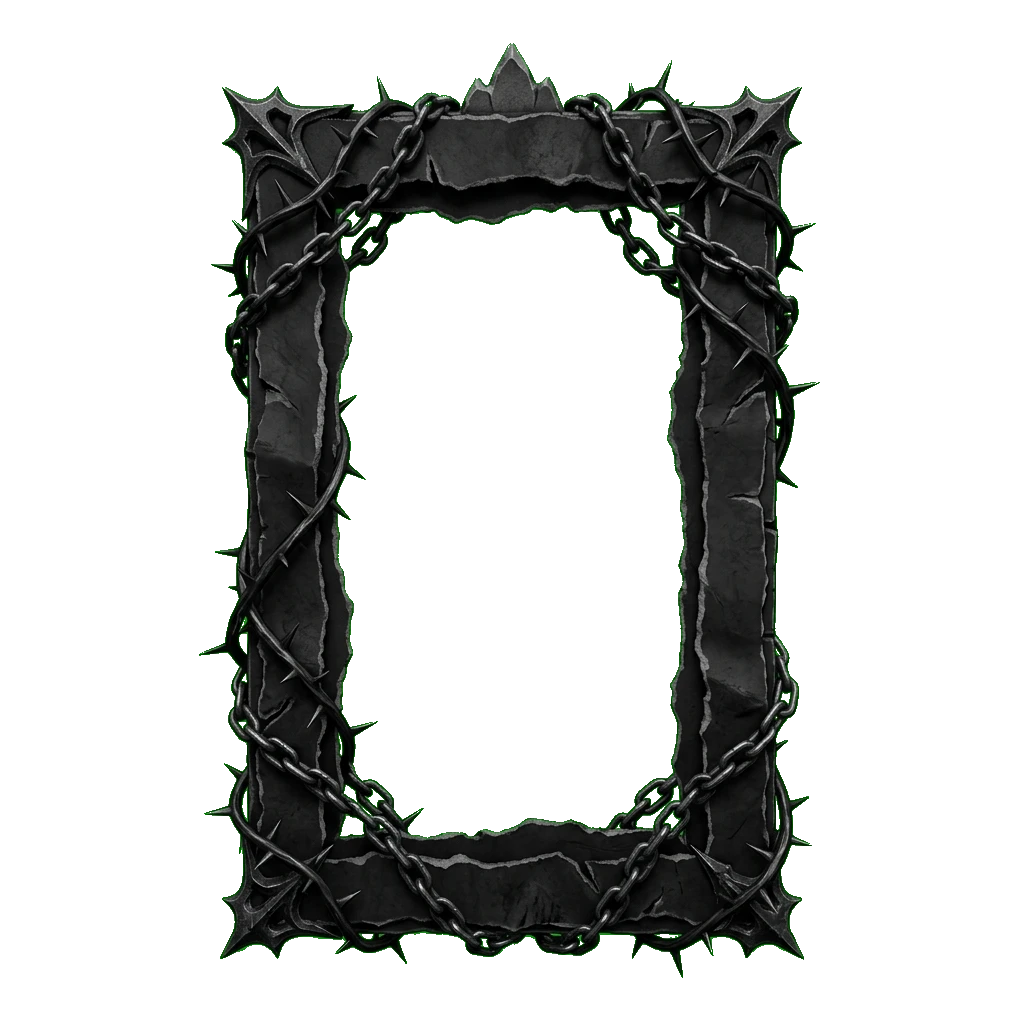
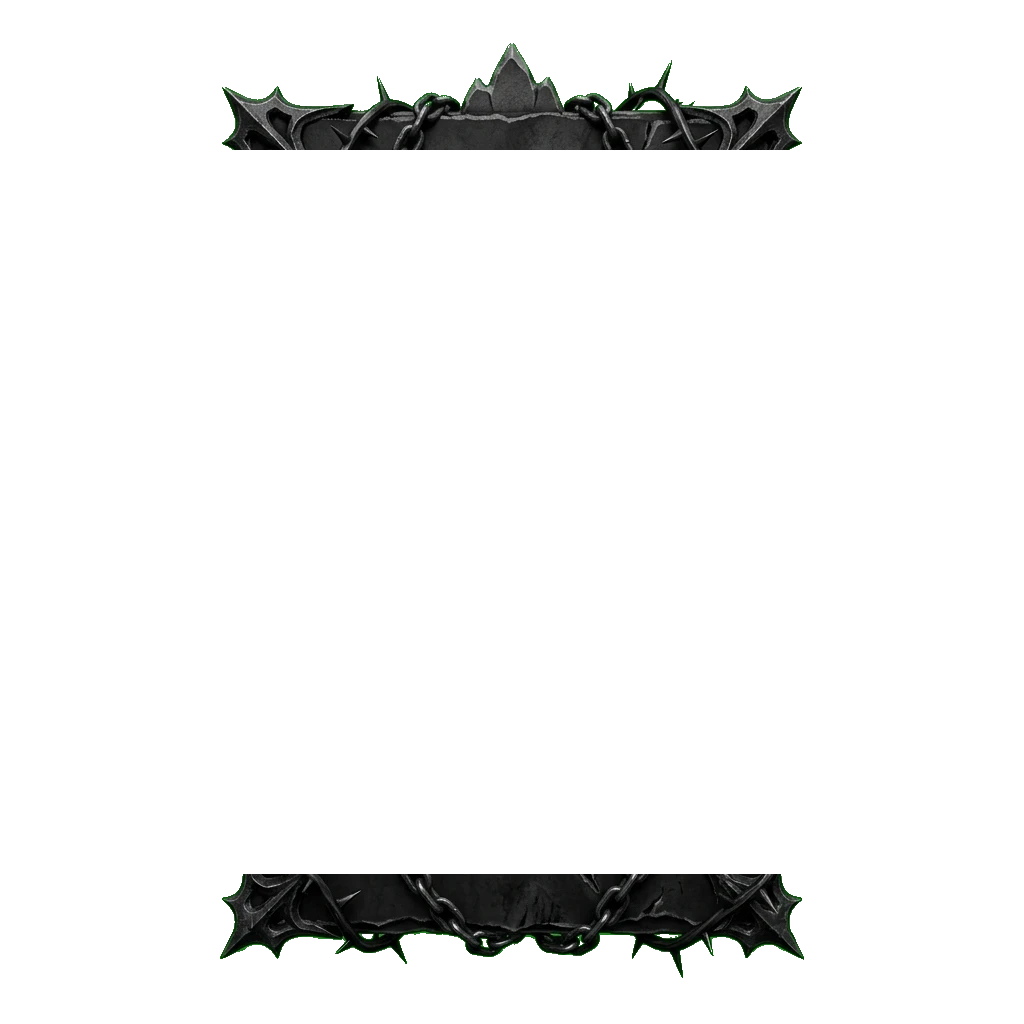
fix(emo): hollow out qr frame center to remove AI generated checkerboard pattern and darken lobby buttons

Changed region(s): [[0.1875, 0.125, 0.7812, 0.875]]

diff --git a/public/css/emo-theme.css b/public/css/emo-theme.css
@@ -29,7 +29,7 @@ body[data-mode="emo"] #lobby-screen {
 }
 
 body[data-mode="emo"] .lobby-bg-img {
-  background: url('../assets/lobby_bg_emo.webp') center/cover no-repeat !important;
+  background: url('../assets/lobby_bg_emo.webp?v=3') center/cover no-repeat !important;
   opacity: 0.9 !important;
 }
 
@@ -38,8 +38,20 @@ body[data-mode="emo"] #lobby-screen .video-bg {
 }
 
 /* Lobby UI Emo Override */
+body[data-mode="emo"] .lobby-particles > div {
+  width: 32px !important;
+  height: 32px !important;
+  background-image: url('../assets/particle_feather.webp?v=3') !important;
+  background-size: contain !important;
+  background-repeat: no-repeat !important;
+  background-repeat: no-repeat !important;
+  background-position: center !important;
+  border: none !important;
+  box-shadow: none !important;
+}
+
 body[data-mode="emo"] .lobby-qr-frame {
-  background-image: url('../assets/qr_frame_emo.webp') !important;
+  background-image: url('../assets/qr_frame_emo.webp?v=4') !important;
   background-size: 100% 100% !important;
   background-color: transparent !important;
   background-repeat: no-repeat !important;
@@ -165,6 +177,7 @@ body[data-mode="emo"] .text-jb-cyan {
 body[data-mode="emo"] .text-jb-magenta {
   color: #7f1d1d !important; /* Dark red */
 }
+
 /* Rain effect for Lluvia Dramática */
 body[data-mode="emo"] #emo-rain-overlay::before {
   content: "";
@@ -187,4 +200,17 @@ body[data-mode="emo"] #emo-rain-overlay::before {
 @keyframes rainAnim {
   0% { background-position: 0 0; }
   100% { background-position: 15px 100vh; }
+}
+
+/* Darken cheerful buttons in Emo Mode */
+body[data-mode="emo"] .jackbox-color-cyan,
+body[data-mode="emo"] .jackbox-color-magenta,
+body[data-mode="emo"] .jackbox-color-yellow,
+body[data-mode="emo"] .jackbox-color-orange,
+body[data-mode="emo"] .jackbox-button-sticker {
+  background: #111827 !important;
+  color: #dc2626 !important;
+  border-color: #7f1d1d !important;
+  box-shadow: 4px 4px 0px #7f1d1d !important;
+  text-shadow: none !important;
 }

diff --git a/public/tv.html b/public/tv.html
@@ -10,7 +10,7 @@
   <link rel="apple-touch-icon" href="./assets/favicon-64.png" />
 
   <link rel="stylesheet" href="/assets/fonts/fonts.css" />
-  <link rel="stylesheet" href="/css/emo-theme.css?v=2" />
+  <link rel="stylesheet" href="/css/emo-theme.css?v=3" />
   <script src="/libs/tailwind.js"></script>
   <script>
     tailwind.config = {